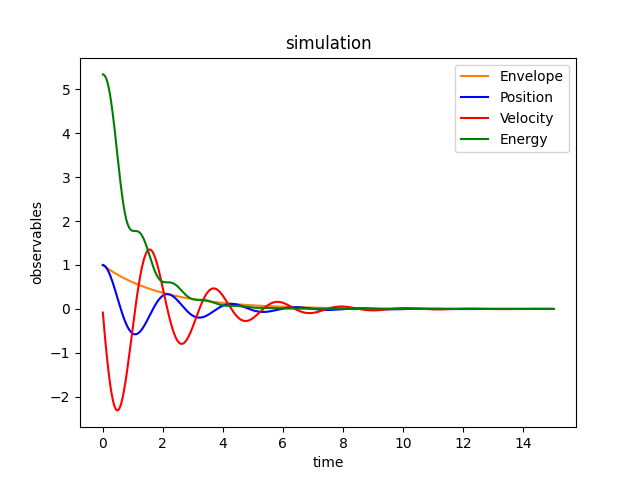
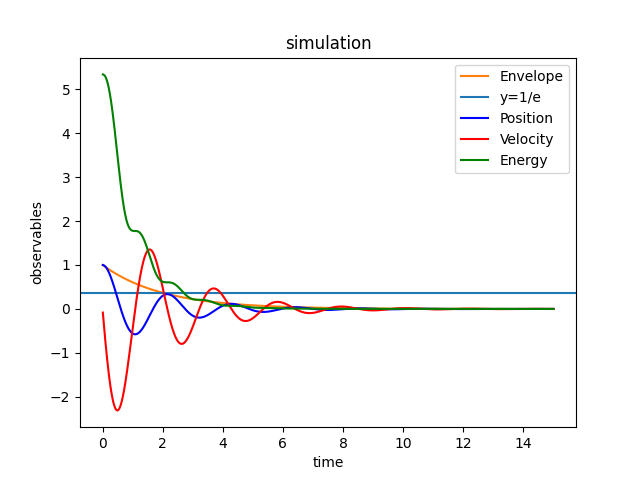
.

Changed region(s): [[0.125, 0.5938, 0.9062, 0.625], [0.7188, 0.1875, 0.875, 0.375], [0.7188, 0.1875, 0.75, 0.25]]

diff --git a/1_oscillations_and_chaos/pendulum_template.py b/1_oscillations_and_chaos/pendulum_template.py
@@ -349,10 +349,10 @@ def exercise_12():
 
 def exercise_13():
     w = 3
-    gamma = 0.01 # [0.5, 1, 2, 3]
+    gamma = 3 # [0.5, 1, 2, 3]
     x0 = 1
     v0 = 0
-    t_max = 250
+    t_max = 15
     dt = 0.01
 
     S = Simulation()
@@ -361,25 +361,26 @@ def exercise_13():
     integrator.dt = dt
 
     x = np.linspace(0, t_max, int(t_max/dt)+10)
-    y = [get_ODE(t, gamma, w) for t in x]
-    #y = [np.e**(-gamma/2*t) for t in x]
+    #y = [get_ODE(t, gamma, w) for t in x]
+    y = [np.e**(-gamma/2*t) for t in x]
 
     
     S.reset(Oscillator(c=w**2, gamma=gamma, theta0=x0, dtheta0=v0))
     S.run(simsystem, integrator, tmax=t_max)
-    plt.plot(x, y, label="Analytic", color="C1")
-    plt.axhline(y=1/np.e)
+    plt.plot(x, y, label="Envelope", color="C1")
+    plt.axhline(y=1/np.e, label="y=1/e")
     S.plot_observables()
 
-    gammas = np.linspace(0.01, 5.99, 10000)
+    gammas = np.linspace(0.01, 5.99, 1000)
     t0_list = []
     t0 = 204
     for g in gammas:
-        t0 = get_tau(g, w, dt=0.001, t0=t0+10, tol=10**-2)
+        t0 = get_tau(g, w, dt=0.001, t0=t0+2, tol=10**-2)
         t0_list.append(t0)
-    plt.plot(gammas, t0_list)
+    plt.plot(gammas, t0_list, label="tau(gamma)")
+    plt.xlabel("gamma")
+    plt.ylabel("tau")
     plt.show()
-    print(t0_list)
         
 
 if __name__ == "__main__" :
